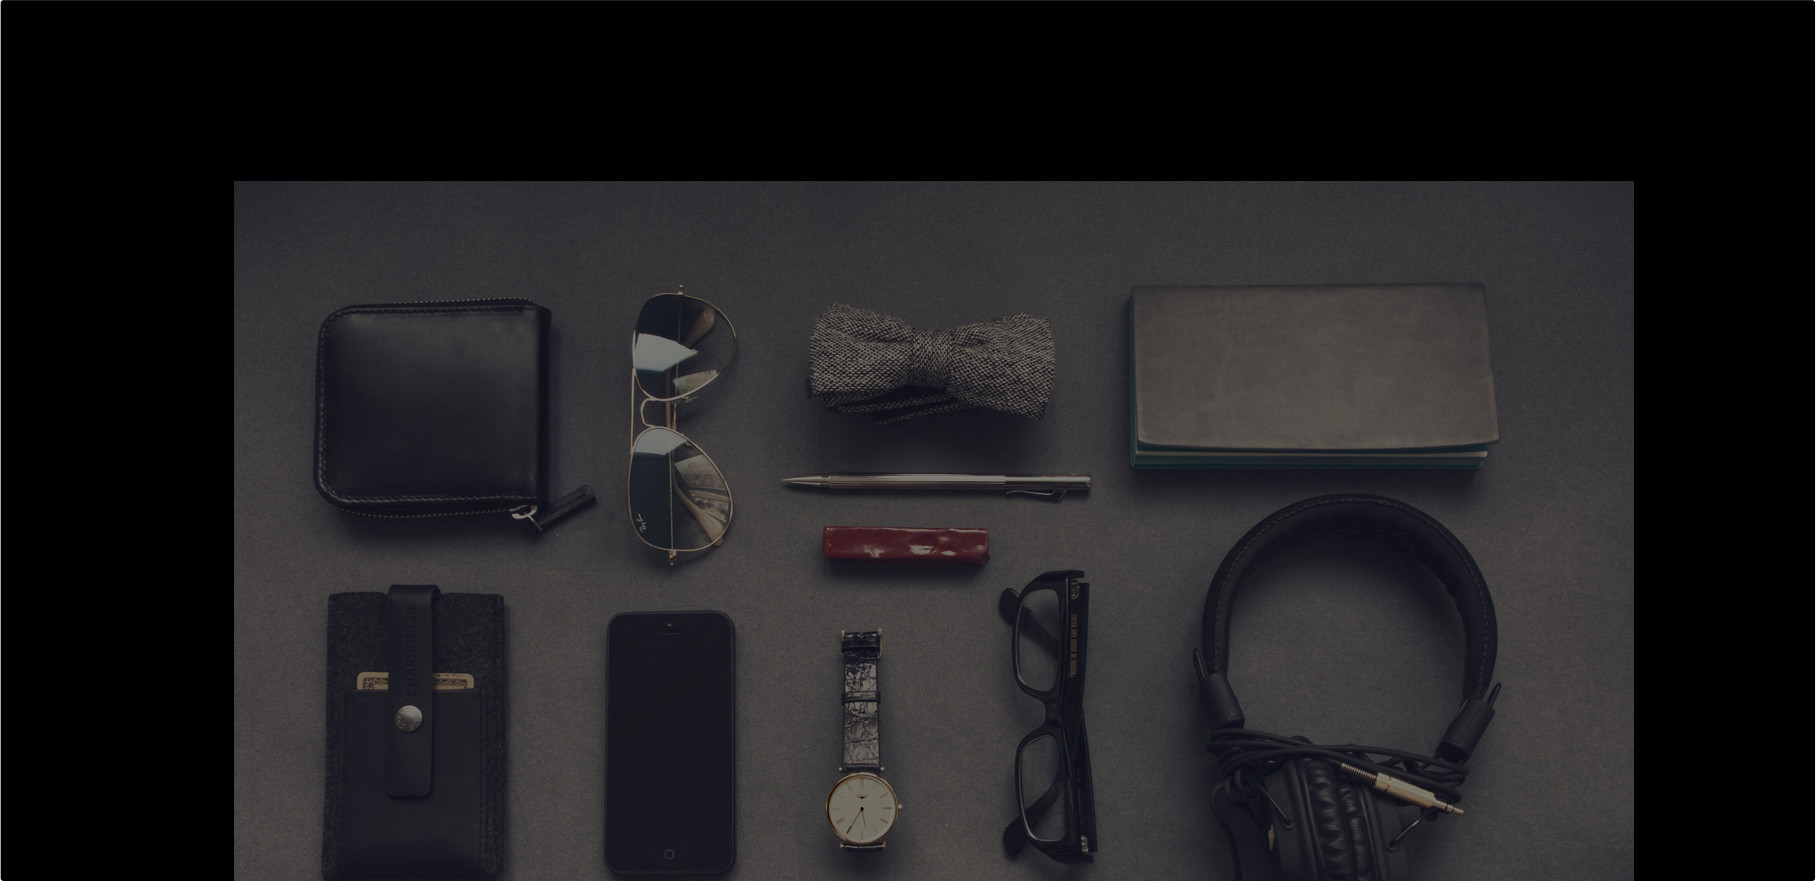
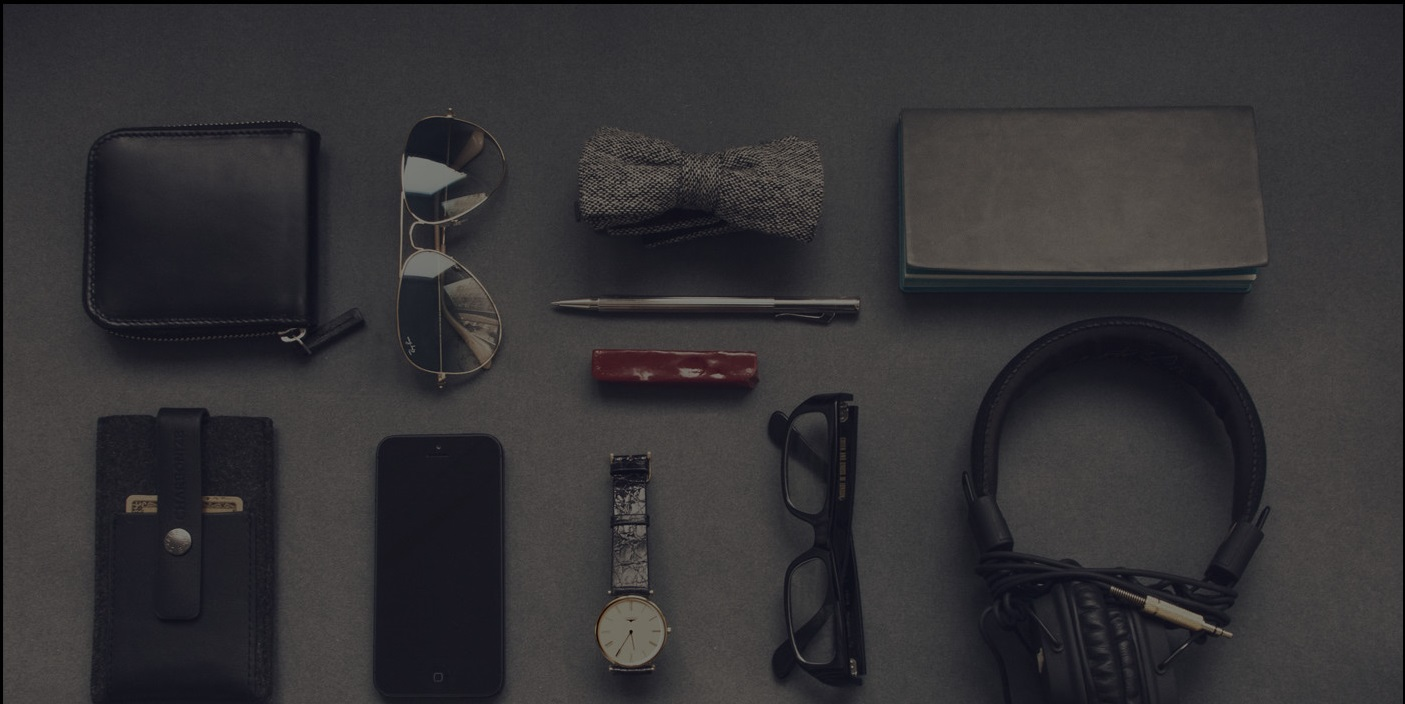
16:58

diff --git a/index.html b/index.html
@@ -7,8 +7,94 @@
 	<link rel="stylesheet" href="css/style.css">
 </head>
 <body>
-	
+	<!-- begin header -->
+	<div class="header header-bgc"> 
+		<div class="header-icon"><img src="img/logo.png" alt=""></div>
+		<!-- begin header-nav -->
+		<div class="header-nav">
+			<ul class="header-nav-list">
+				<li class="header-nav-item"><a class="header-nav-link" href="#">home</a></li>
+				<li class="header-nav-item"><a class="header-nav-link" href="#">services</a></li>
+				<li class="header-nav-item"><a class="header-nav-link" href="#">portfolio</a></li>
+				<li class="header-nav-item"><a class="header-nav-link" href="#">about</a></li>
+				<li class="header-nav-item"><a class="header-nav-link" href="#">contact</a></li>
+			</ul>
+		</div>
 
-<script>document.write('<script src="http://' + (location.host || 'localhost').split(':')[0] + ':35729/livereload.js?snipver=1"></' + 'script>')</script>
+		<!-- begin header-main -->
+		<div class="header-main">
+			<p class="top-title">Welcome To Our Studio!</p>
+			<h1 class="title">It’s nice to Meet you</h1>
+			<button class="tell">
+				<a href="#" class="tell-link">Tell Me More</a>
+			</button>
+		</div>
+		<!-- end header-main -->
+
+		<!-- end header-nav -->
+	</div>
+	<!-- end header -->
+
+	<!-- begin main-container -->
+	<div class="main-container">
+		
+		<!-- begin main-serv -->
+		<div class="main-serv">
+			<h2 class="title title__serv">Services</h2>
+			<p class="sub-title sub-title__serv">Proin iaculis purus consequat sem cure.</p>
+			<div class="block block__serv">
+				<div class="block-left">
+					<img src="img/icon1.png" alt="left" class="left">
+					<a href="" class="left-link"></a></img>
+					<p class="block-tag left-tag">E-Commerce</p>
+					<p class="blok-text left-text">Proin iaculis purus consequat sem cure 
+						digni ssim. Donec porttitora entum suscipit 
+					aenean rhoncus posuere odio in tincidunt.</p>
+				</div>
+				<div class="block-middle">
+					<img src="img/icon1.png" alt="middle" class="middle">
+					<a href="" class="middle-link"></a></img>
+					<p class="block-tag middle-tag">Responsive Web</p>
+					<p class="blok-text middle-text">Proin iaculis purus consequat sem cure 
+						digni ssim. Donec porttitora entum suscipit 
+					aenean rhoncus posuere odio in tincidunt.</p>
+				</div>
+				<div class="block-right">
+					<img src="img/icon1.png" alt="right" class="right">
+					<a href="" class="right-link"></a></img>
+					<p class="block-tag right-tag">Web Security</p>
+					<p class="blok-text right-text">Proin iaculis purus consequat sem cure 
+						digni ssim. Donec porttitora entum suscipit 
+					aenean rhoncus posuere odio in tincidunt.</p>
+				</div>
+			</div>
+		</div>
+		<!-- end main-serv -->
+
+		<!-- begin main-portf -->
+		<div class="main-port">
+			<h2 class="title title__port">Our portfolio</h2>
+			<p class="sub-title sub-title__port">Proin iaculis purus consequat sem cure. </p>
+			<div class="block block__port">
+				<img src="img/img1.jpg" alt="ebony">
+				<img src="img/img2.jpg" alt="">
+				<img src="img/img3.jpg" alt="">
+			</div>
+		</div>
+		<!-- end main-portf -->
+
+		<!-- begin main-about -->
+		<div class="main-about">
+			<h2 class="title title__port">About Us</h2>
+			<p class="sub-title sub-title__port">Proin iaculis purus consequat sem cure. </p>
+			<div class="block block__about">
+				
+			</div>
+		</div>
+		<!-- end main-about -->
+
+	</div>
+	<!-- end main-container -->
+	<script>document.write('<script src="http://' + (location.host || 'localhost').split(':')[0] + ':35729/livereload.js?snipver=1"></' + 'script>')</script>
 </body>
 </html>

diff --git a/css/style.css b/css/style.css
@@ -1,3 +1,35 @@
 body{
 background-color: #ccc;
 }
+.header-bgc{
+	background: url(../img/first-bg.jpg); 
+	height: 100vh;
+	width: 100vw;
+}
+.main-container{
+	padding: 0 230px;
+	width: auto 0;
+	border: 1px solid red;
+}
+.main-serv{
+	height: 100vh;
+	width: 100%;
+	background-color: #ccc;
+	width: auto 0;
+	border: 1px solid red;
+}
+.main-port{
+	height: 100vh;
+	width: 100%;
+	background-color: #fff;	
+	width: auto 0;
+	border: 1px solid red;
+}
+
+.main-about{
+	height: 100vh;
+	width: 100%;
+	background-color: #fff;	
+	width: auto 0;
+	border: 1px solid red;
+}
